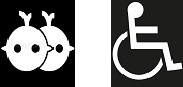
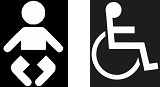
Finalized number plates and made changes

diff --git a/digiplate/lib/screens/location_detail/location_detail.dart b/digiplate/lib/screens/location_detail/location_detail.dart
@@ -6,11 +6,12 @@ class LocationDetail extends StatelessWidget {
   Widget build(BuildContext context) {
     return MaterialApp(
       home: Scaffold(
+        backgroundColor: const Color(0xffFFFFFF),
         body: Center(
           child: Column(
             children: <Widget>[
               Padding(padding: EdgeInsets.only(top: 20)),
-              Image.asset('assets/images/learners_pregnant.jpg'),
+              Image.asset('assets/images/disabled.jpg'),
               Padding(padding: EdgeInsets.only(top: 20)),
               Text(' '),
               Text(
